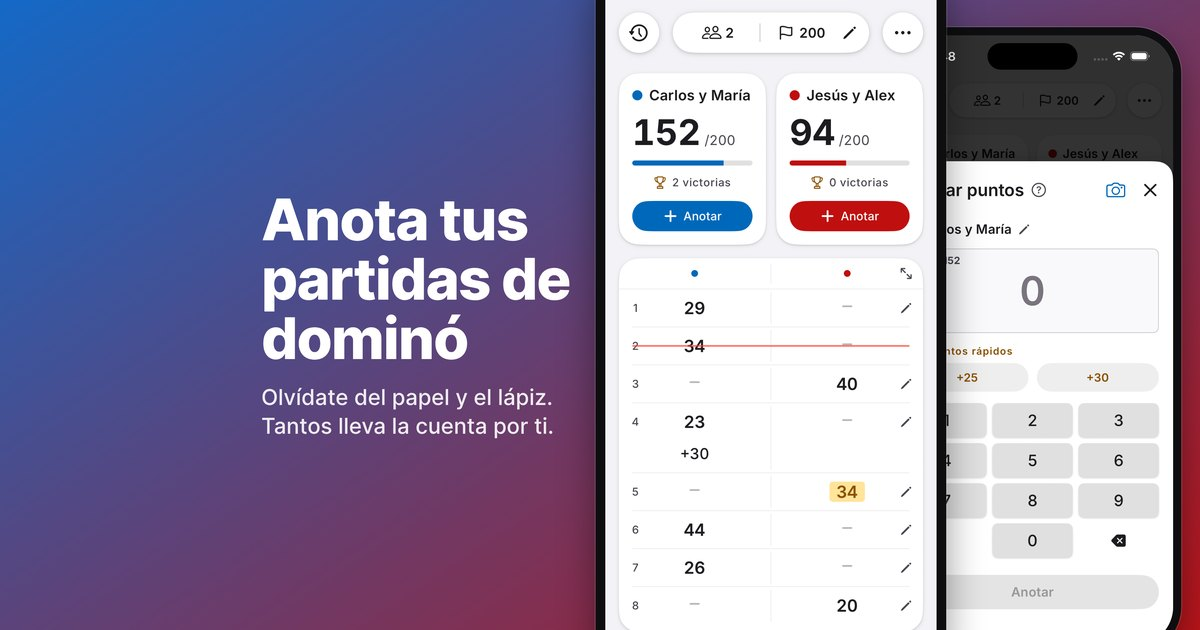
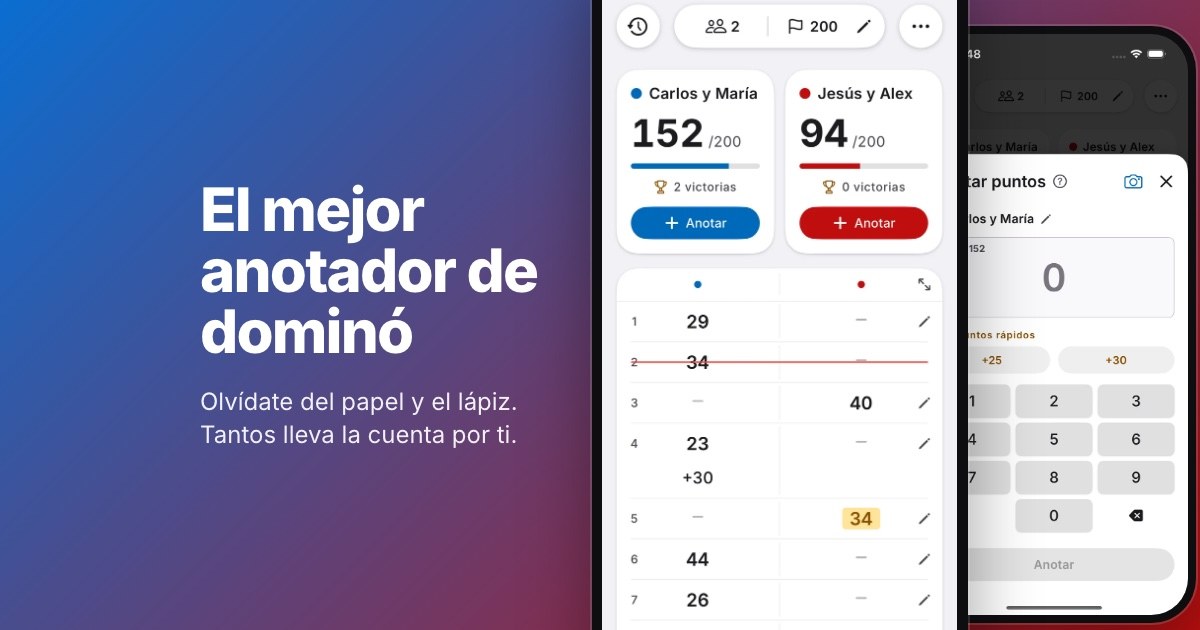
Refresh the social sharing image
Update the Open Graph image and add a version query parameter to help social platforms load the new image.

diff --git a/index.html b/index.html
@@ -14,7 +14,7 @@
 <meta property="og:site_name" content="Tantos">
 <meta property="og:title" content="Tantos · Anotador de dominó">
 <meta property="og:description" content="Olvídate del papel y el lápiz. Tantos lleva la cuenta por ti.">
-<meta property="og:image" content="https://tantosapp.com/img/og.jpg">
+<meta property="og:image" content="https://tantosapp.com/img/og.jpg?v=2">
 <meta property="og:image:width" content="1200">
 <meta property="og:image:height" content="630">
 <meta name="twitter:card" content="summary_large_image">
